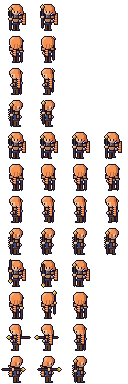
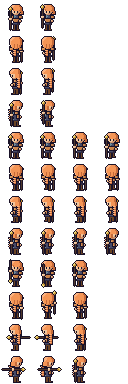
feat: ミラの正面の三つ編みを体の奥の左手の内側に置く

diff --git a/pixel-asset-forge/types/unit/SPEC.md b/pixel-asset-forge/types/unit/SPEC.md
@@ -204,7 +204,7 @@ gen/<unit>/                               1体のためのスクリプト（rora
 - 重なり順と動きは女性の槍の敵（`checks/spear-thug-a-f.json`）と同じ（長い髪の前を頭の直前、後ろを一番奥）。リュカの重なり順は男性の敵の槍と同じで、女性の敵と食い違わない
 - 色: 髪 `hair_orange_*`（顔の髪 `#f49556`）、鎧 `armor_amber_*`（顔の鎧 `#eab27c` は肌と近いので全身絵の `#c8814c` に寄せて暗くした）、槍の柄 `spear_umber_*`（`weapon`）、穂先 `spear_gold_*`（`blade`。既存の金の色見本 `metal_*`）。
   `probe_colors.py` で輪郭・肌・服・互いと測り、HARD は 0 件。髪の明と鎧の明の ΔE 9.5 が WARN（肩で隣り合う）
-- 三つ編みは編み目の段で描く（依頼者 2026-11-25「三つ編みをドットで再現できるべき」）: 太い段（明 `W`・中 `X` の 3 画素＋輪郭）と細い段（暗 `Z` の 2 画素＋輪郭）を 1 行ずつ交互に重ね、10 行垂らす。髪は前の部品（`hair_ally15`。頭の髪。顔の前に重なる）と後ろの部品（`hair_ally15_back`。体の奥）に分ける（敵の女性の髪 A と同じ構成）。依頼者の指摘（2026-11-25）で、三つ編みは後ろの部品に置く: 正面は体の横（向かって右、x21〜25。頭の横の髪から垂れ、体と空き手の奥）、右向きは体の後ろ（向かって左、x8〜12）。例外が 2 つ: 背面は髪が体の手前なので、三つ編みは前の部品で背中の中央より左（x12〜16）、左向きは槍が体の後ろにあり、後ろに置くと槍にかかって頭からも離れる（`weapon_check` が槍の長さのずれで落とす）ので、前の部品で肩の前（x16〜20）。頭の横の髪は顎の高さ（row 13）までの短い髪にした（敵の女性の髪 A の長い横髪をやめた）。前髪は分け目（x13）から斜めに流し、下端を不ぞろいにした（ぱっつんにしない。依頼者）
+- 三つ編みは編み目の段で描く（依頼者 2026-11-25「三つ編みをドットで再現できるべき」）: 太い段（明 `W`・中 `X` の 3 画素＋輪郭）と細い段（暗 `Z` の 2 画素＋輪郭）を 1 行ずつ交互に重ね、10 行垂らす。髪は前の部品（`hair_ally15`。頭の髪。顔の前に重なる）と後ろの部品（`hair_ally15_back`。体の奥）に分ける（敵の女性の髪 A と同じ構成）。依頼者の指摘（2026-11-25）で、三つ編みは後ろの部品に置く: 正面は背面の三つ編み（x12〜16）の左右を入れ替えた位置（x15〜19）で、体の奥なので正面では隠れる（依頼者が選んだ。背面と同じ左手の内側で、見える・見えないは別の決めごと）、右向きは体の後ろ（向かって左、x8〜12）。例外が 2 つ: 背面は髪が体の手前なので、三つ編みは前の部品で背中の中央より左（x12〜16）、左向きは槍が体の後ろにあり、後ろに置くと槍にかかって頭からも離れる（`weapon_check` が槍の長さのずれで落とす）ので、前の部品で肩の前（x16〜20）。頭の横の髪は顎の高さ（row 13）までの短い髪にした（敵の女性の髪 A の長い横髪をやめた）。前髪は分け目（x13）から斜めに流し、下端を不ぞろいにした（ぱっつんにしない。依頼者）
 
 ### 短剣の持ち方（ガウ、標準のワークフローの試行）
 

diff --git a/docs/superpowers/ledgers/2026-11-24-unit-art-all-1.md b/docs/superpowers/ledgers/2026-11-24-unit-art-all-1.md
@@ -45,3 +45,4 @@ Ruling: ミラの正面の三つ編みを、依頼者が良しとした背面の
 Ruling: ミラの前髪をぱっつんにしない — 依頼者の指摘（2026-11-25）。分け目（x13）から斜めに流し、下端を不ぞろいにして先を尖らせ、額の一部を見せた。目は隠さない（x14・x17 の row 11〜12）。unit_rules mira 全通過・forge unittest 804 OK・npm run build 通過
 Ruling: 部品・設定の名前にキャラクターの名前を使わない（依頼者 2026-11-25「キャラクターの名前を可変にしたい。他のキャラクターの部品にも適用」）— ryuka・mira・borg を、ゲームの ID（ally07・ally15・ally05）に付け替えた（フォルダ・ファイル名と、compose・checks・sheets・sprites.json・CLAUDE.md・SPEC・ISSUES・HANDOVER の中身。301 ファイルの名前変更と 83 ファイルの書き換え。画素は変えていない: compose --check・unit_rules は 3 人とも通り、書き出しで変わった画像は ally15-map.png だけ）。ロラン・イネス・ガウ・ミスト・ガルムは、ゲームの ID 自体が名前なので付け替えていない — 付け替えるとゲームの ID・セーブ・テストに及ぶ。決まりは pixel-asset-forge/CLAUDE.md に書いた
 Ruling: ミラの髪の前の部品と後ろの部品を分けたまま、三つ編みを後ろの部品へ移した — 依頼者の指摘（2026-11-25「髪の前と後ろを分けているのなら、三つ編みは後ろ側に」）。正面は体の横に垂らして体の奥、右向きは体の後ろ。背面は髪が体の手前なので前の部品のまま、左向きは槍にかかるので前の部品のまま（weapon_check が落とした）— 左向きの三つ編みは体の前に見える（依頼者に見せて決める）。依頼者が先に頼んだ「髪の前と後ろを 1 つに合わせる」は、前髪が顔の奥に隠れてしまうので、後の指摘（分けたまま後ろへ）に従って行わなかった
+Ruling: ミラの正面の三つ編みを、背面と同じ左手の内側（x15〜19）の体の奥に置いた。正面では体に隠れる — 依頼者が B を選択（2026-11-25）。「三つ編みを再現できる」と「正面で見える」は別の決めごと（依頼者の指摘）。unit_rules ally15 全通過・forge unittest 804 OK・npm run build 通過（npm test は流していない）
